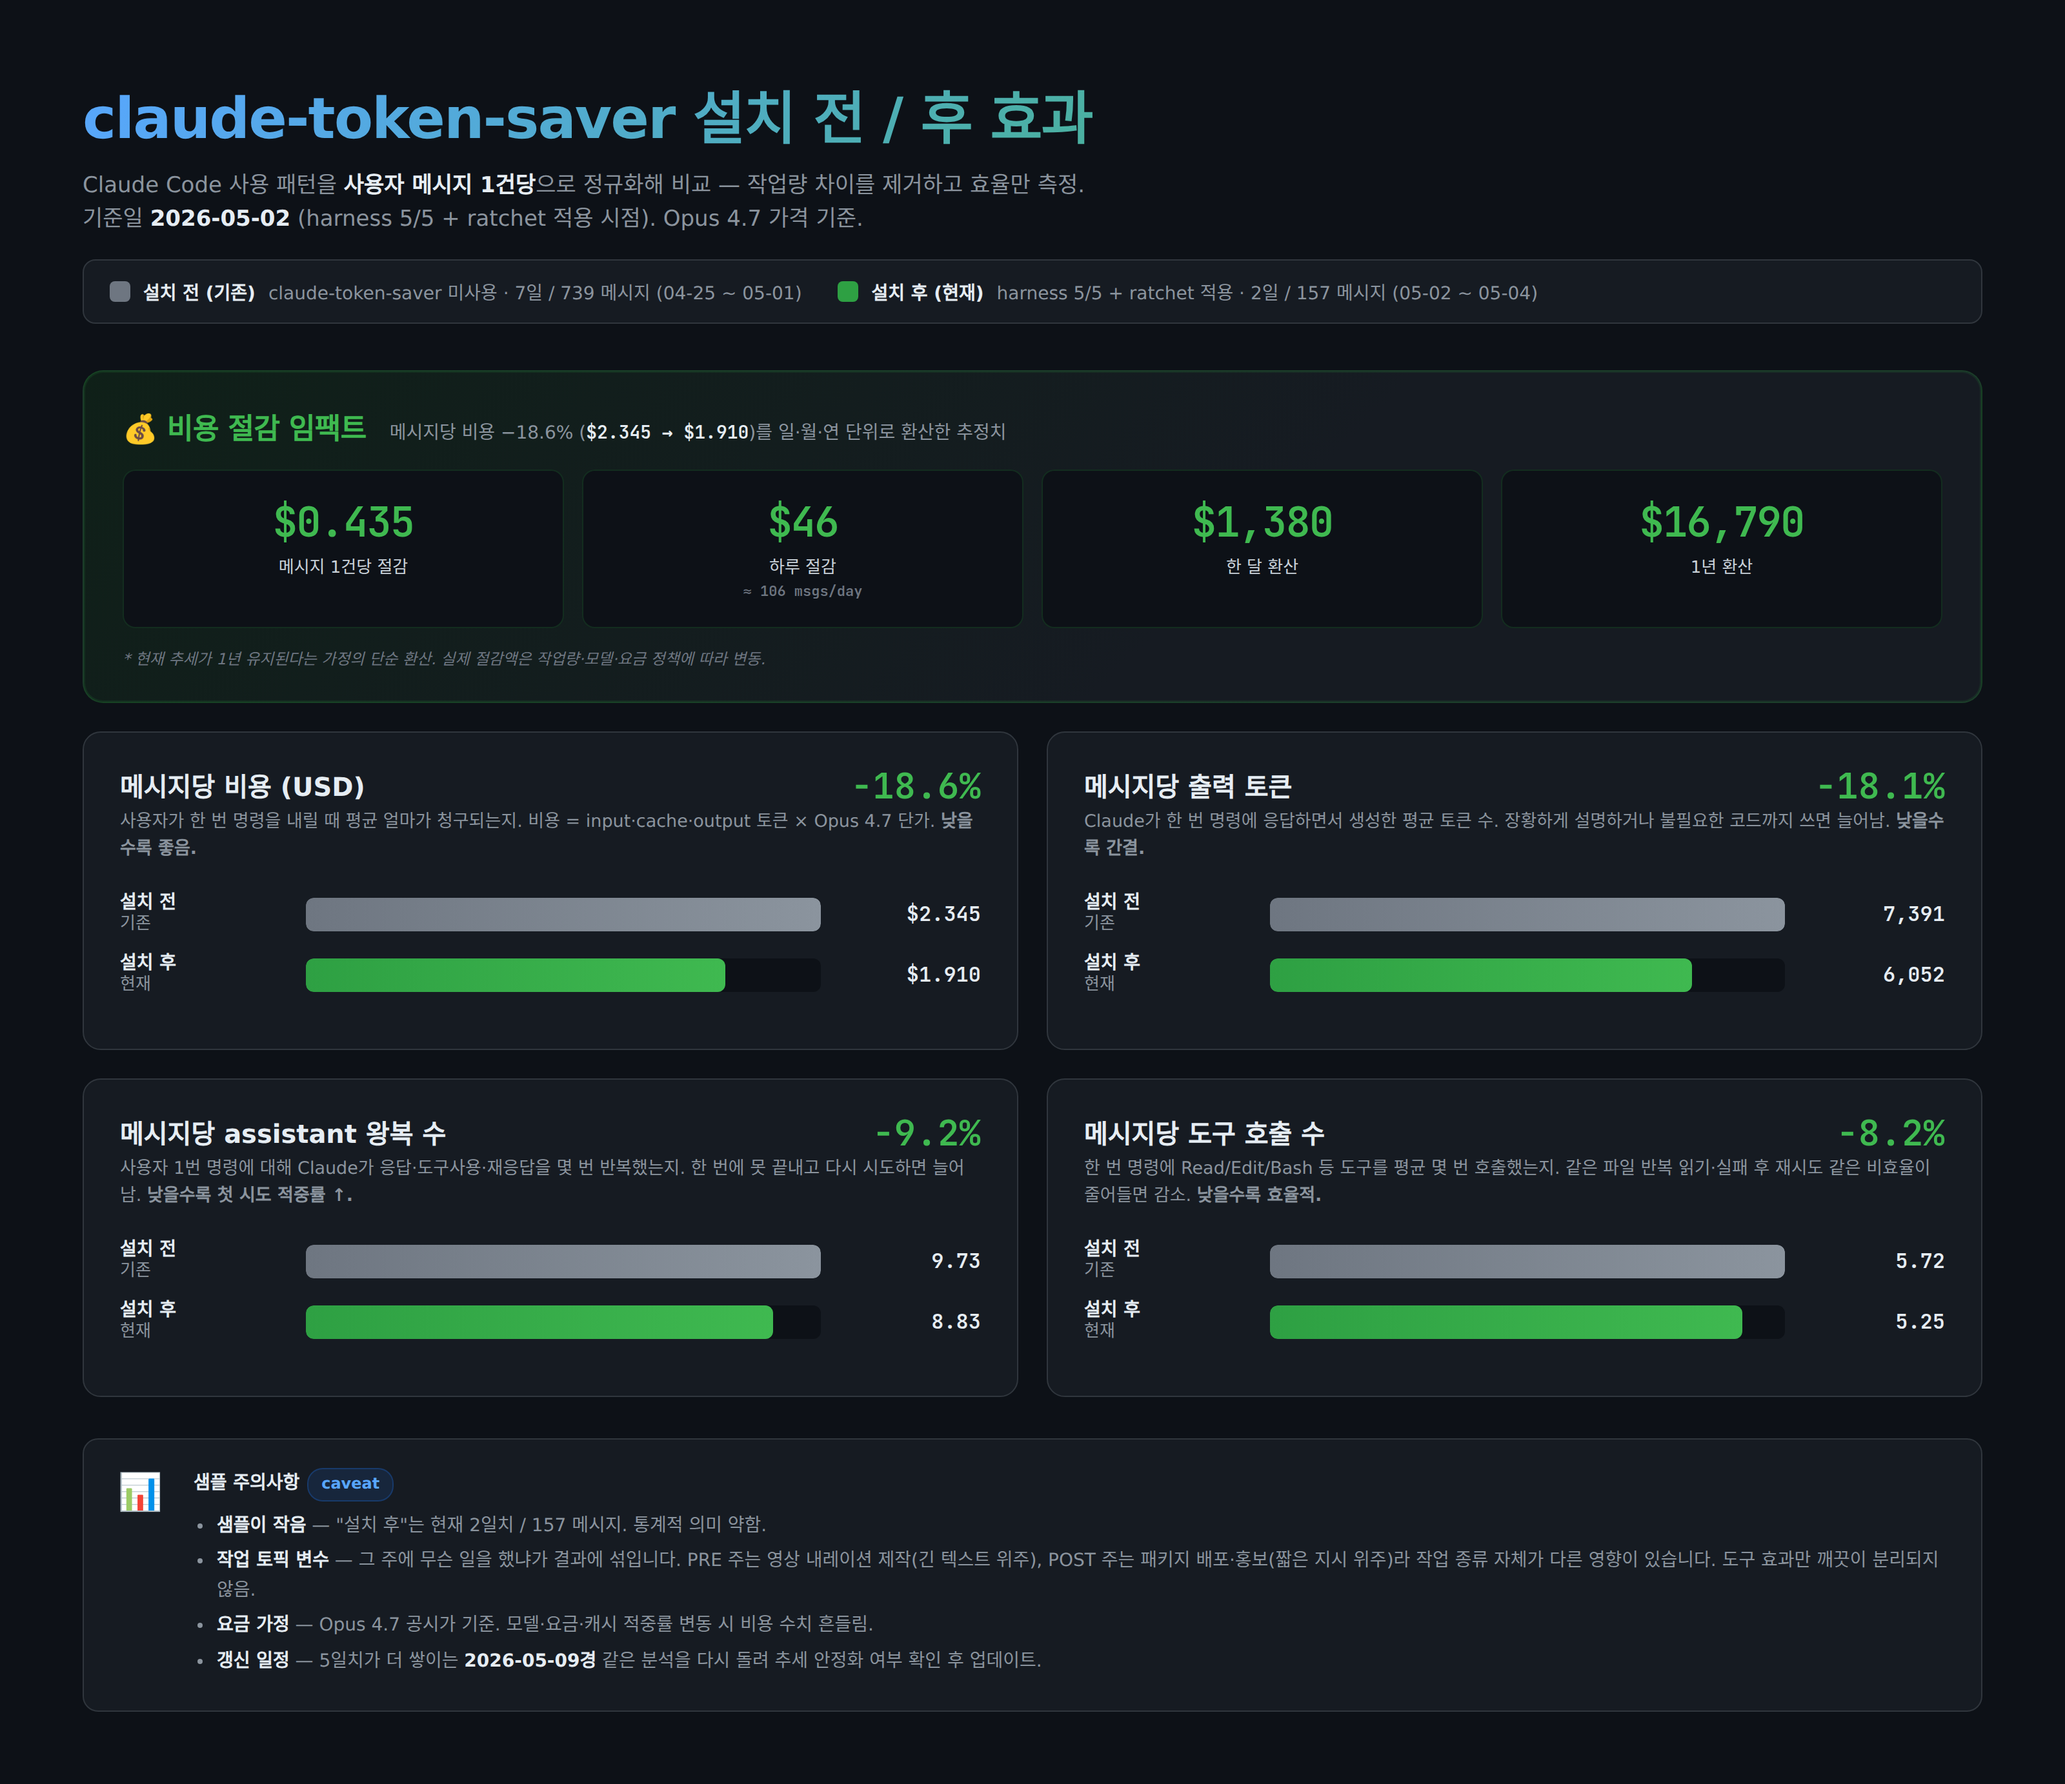
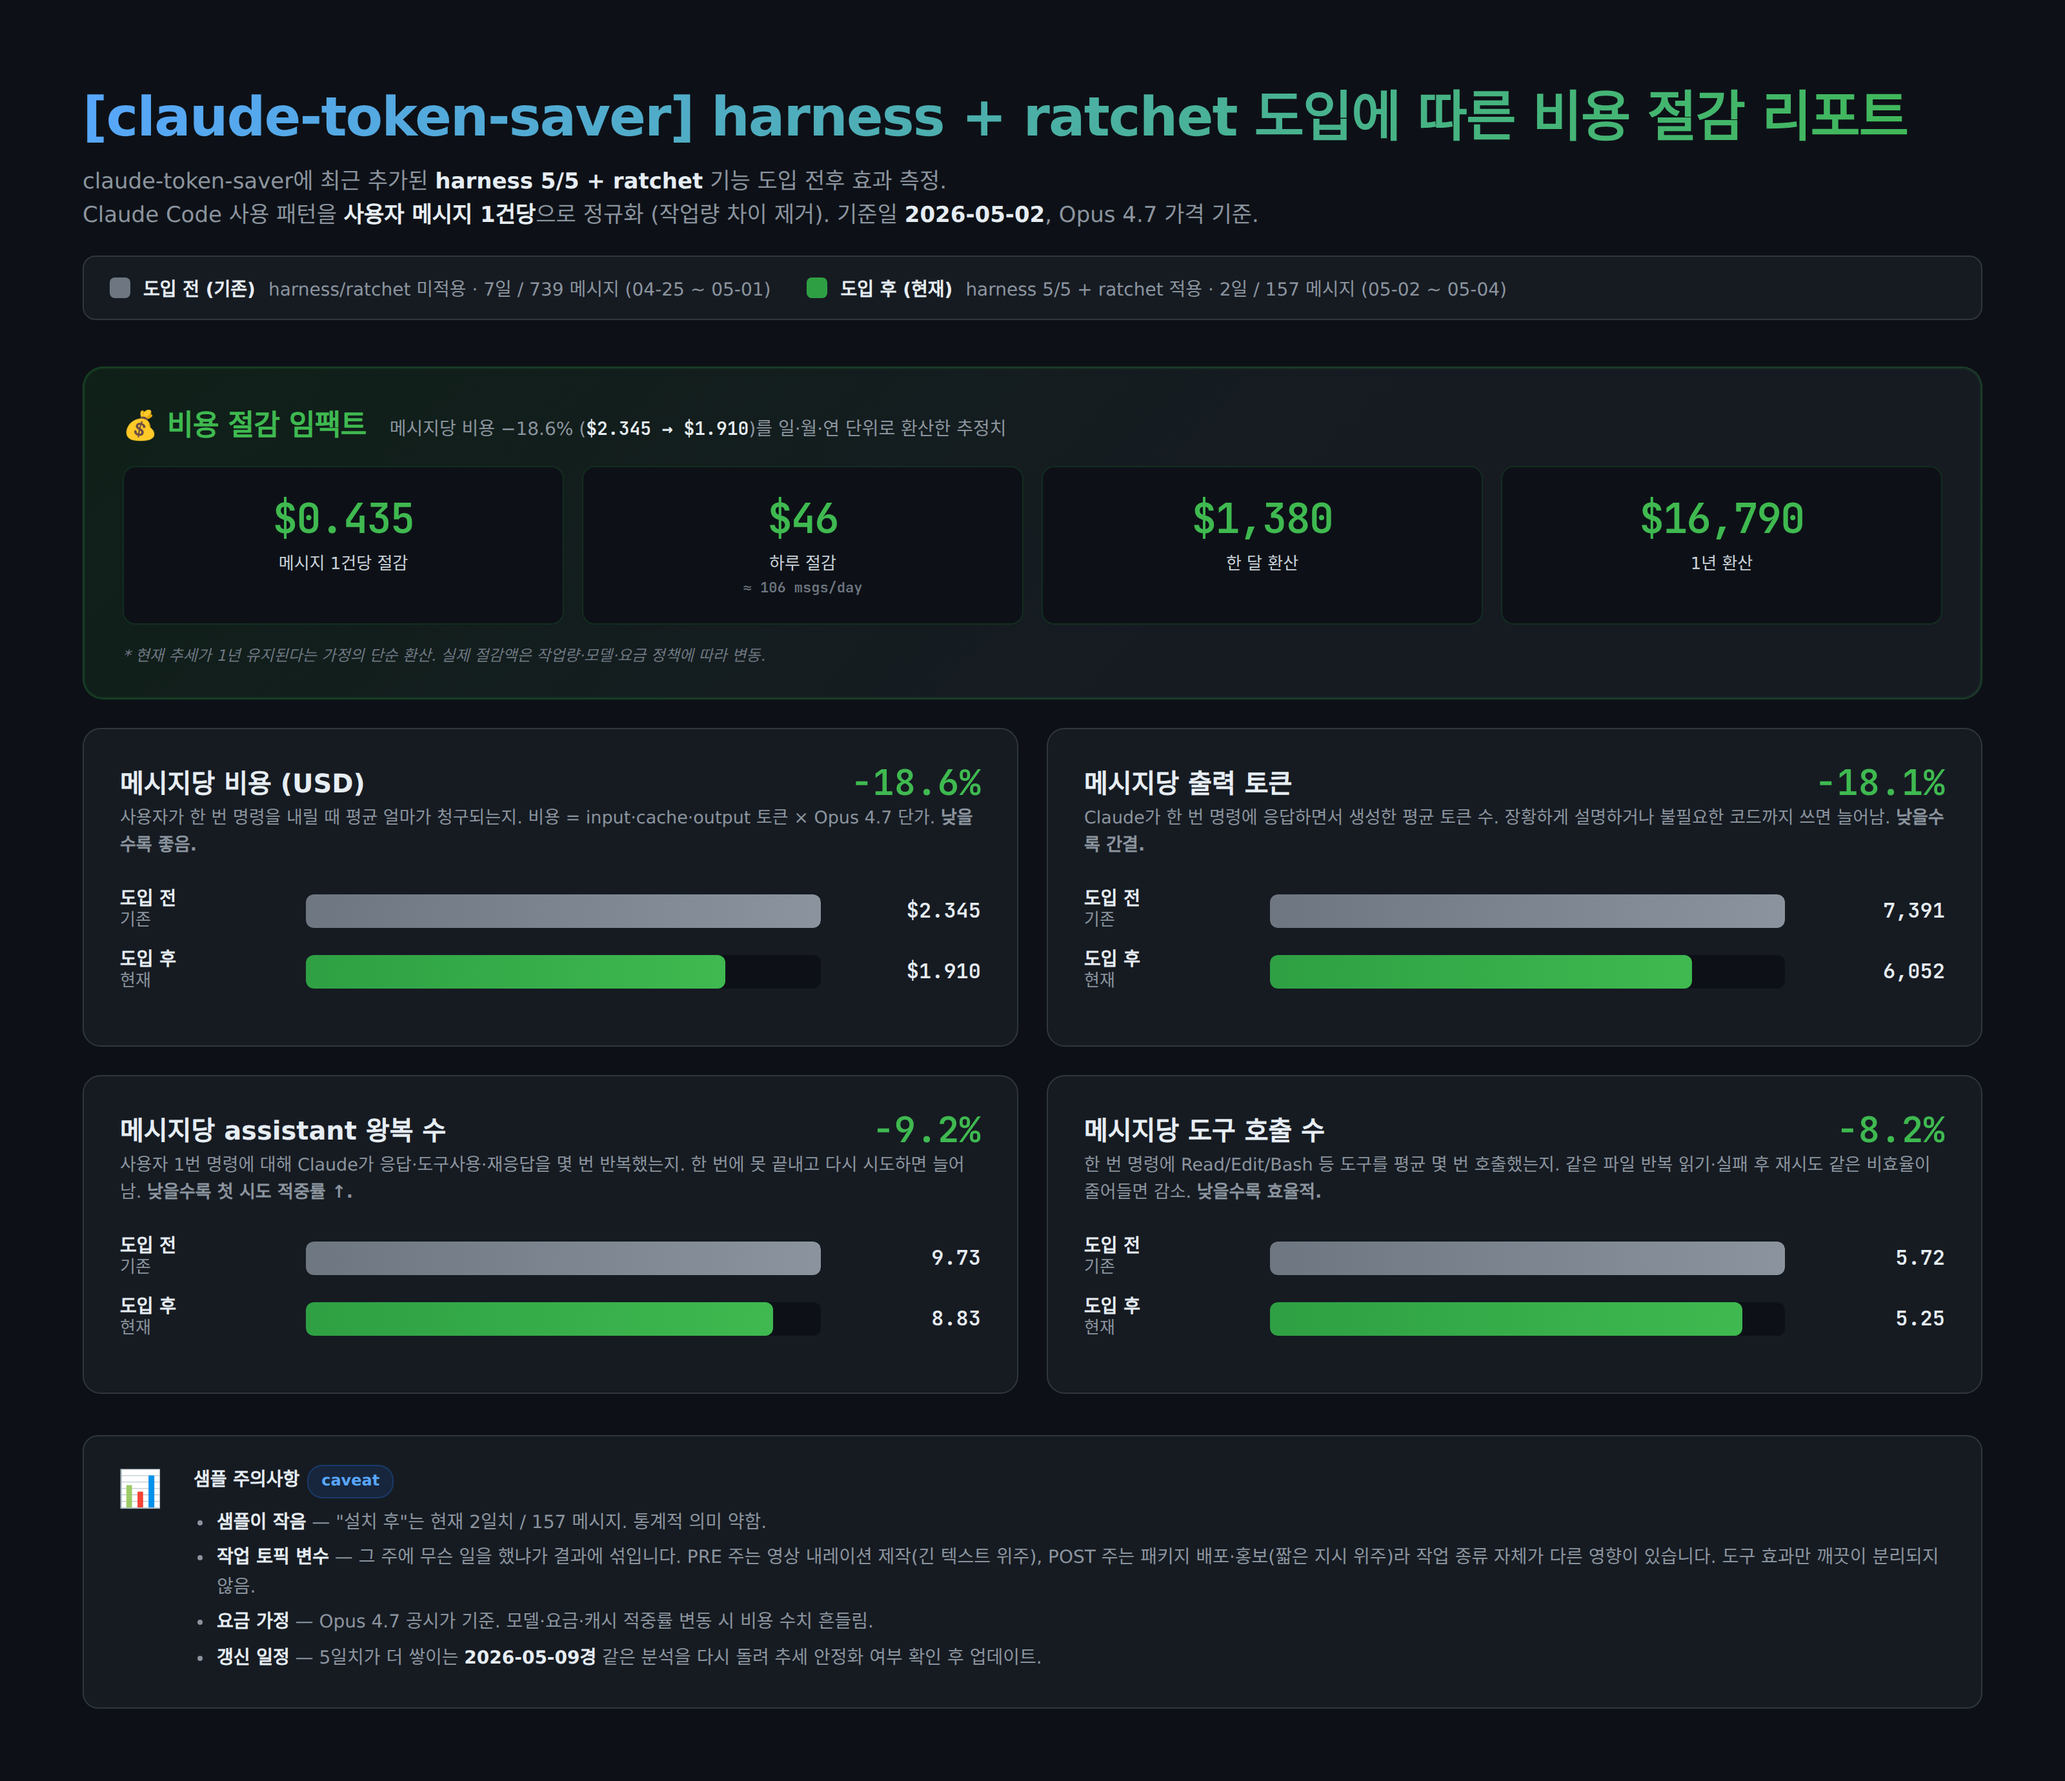
v2.13.3 — restructure impact section as harness+ratchet cost-savings report
- Update chart title and per-language framing to 'harness + ratchet 도입 전후 비용 절감 리포트'
- Add Max(1h) / Pro(5m) cache TTL distinction — explain why cache hit rate isn't in the metrics and why Pro users likely benefit more
- Document the handoff-before-expiry workflow as part of the harness pattern
- Promise refreshed analysis after 7d total data on 2026-05-09

diff --git a/README.en.md b/README.en.md
@@ -13,11 +13,11 @@ A CLI to **diagnose and save tokens on Claude Code**. Cache hit rate, TTL countd
 
 📺 [Launch Short (60s)](https://www.youtube.com/shorts/RaD8qMsPTnA)
 
-## Real-world impact — harness 5/5 + ratchet adoption
+## Cost-savings report — harness + ratchet adoption
 
-![claude-token-saver before/after](./docs/harness-impact.png)
+![claude-token-saver — harness + ratchet adoption impact](./docs/harness-impact.png)
 
-Author's own Claude Code logs, normalized **per user message**, before/after adopting harness rules on 2026-05-02 (Opus 4.7 pricing):
+The recently added **harness 5/5 + ratchet** features applied to the author's own Claude Code work, normalized **per user message** (cutoff 2026-05-02, Opus 4.7 pricing):
 
 | metric | before (7d / 739 msgs) | after (2d / 157 msgs) | Δ |
 |---|---:|---:|---:|
@@ -26,7 +26,17 @@ Author's own Claude Code logs, normalized **per user message**, before/after ado
 | assistant turns / user message | 9.73 | 8.83 | −9.2% |
 | tool calls / user message | 5.72 | 5.25 | −8.2% |
 
-> ⚠ **Sample caveats** — POST window is only 2 days (157 msgs); statistical confidence is low. The work topic mix differs week to week (PRE week was video-script production with long pasted text, POST week was package release with short directives), so the tool/harness effect is not cleanly isolated. Refresh planned around **2026-05-09** once 5 more days of POST data are in.
+Same request resolved in fewer round-trips → first-try success rate up. Looks like the effect of PEV + Structured Task forcing one-shot delivery.
+
+### Why cache hit rate isn't in this measurement — Max vs Pro
+
+**Cache hit rate improvement isn't included** in this comparison. The author is on the Max plan with a 1-hour cache TTL and stays inside the same context for the full hour, so the hit rate had already converged near ~98% with little headroom left. **Pro-plan users (5-minute TTL)** see caches expire frequently, so the harness "one-shot" pattern + a "handoff right before TTL expiry" workflow likely **lifts hit rate itself**.
+
+### Handoff-before-expiry workflow
+
+Watching the TTL countdown in the statusline, the habit is now: just before expiry, run `claude-token-saver handoff` to dump current work state into a markdown brief, then start a fresh cache cycle. Same flow handles the 1M-context warning and 5H/7D cap chips.
+
+> ⚠ **Sample caveats** — POST window is only 2 days (157 msgs); statistical confidence is low. The work topic mix differs week to week (PRE was video-script production with long pasted text, POST was package release with short directives), so the tool/harness effect isn't cleanly isolated. **Once 5 more days of POST data are in (around 2026-05-09)**, the same analysis will be re-run to check whether the trend stabilises, and an update will be posted.
 
 ---
 
@@ -253,6 +263,12 @@ Node.js ≥ 18 · macOS / Windows / Linux / WSL · zero dependencies.
 **IntelliJ Claude Code plugin** — the statusline widget fuses prior and current frames at the character level when emoji are in the output, producing artifacts like `Cache expires 59:548`. v2.8.5+ detects `TERMINAL_EMULATOR=JetBrains-JediTerm` and falls back to text mode automatically (`--icon` is also ignored under IntelliJ). Other terminals (iTerm, Terminal, WSL, etc.) are unaffected.
 
 ## Release notes
+
+### v2.13.3 (2026-05-04)
+- "Real-world impact" section restructured as a **harness + ratchet adoption cost-savings report**. Added Max(1h)/Pro(5m) cache TTL distinction (different hit-rate headroom), the handoff-before-expiry workflow, and the 2026-05-09 refresh promise. Chart title updated to match.
+
+### v2.13.2 (2026-05-04)
+- YouTube channel handle corrected to `@DeepPulseKR` (package.json + both READMEs).
 
 ### v2.13.1 (2026-05-04)
 - README now opens with the actual statusline screenshot and a "harness 5/5 + ratchet — before/after" impact chart, with daily/monthly/yearly cost-savings impact card. Author's own logs show −18.6% cost / user message, −9.2% assistant turns. Sample caveats, work-topic confound, and refresh schedule (2026-05-09) called out.
